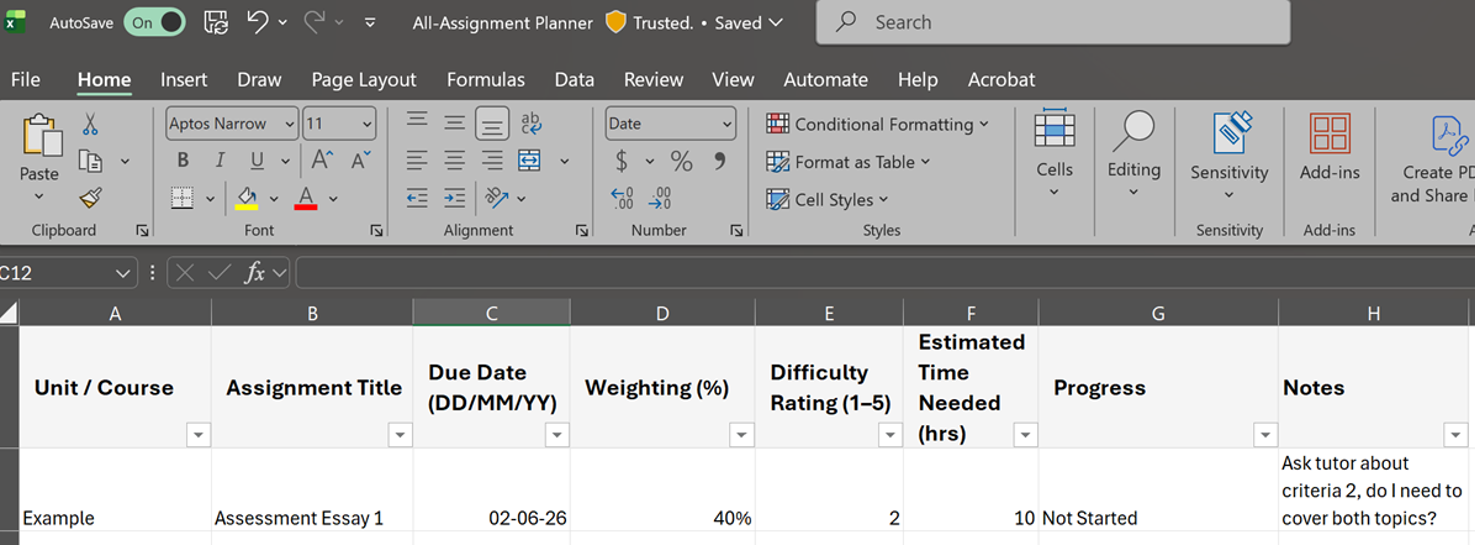
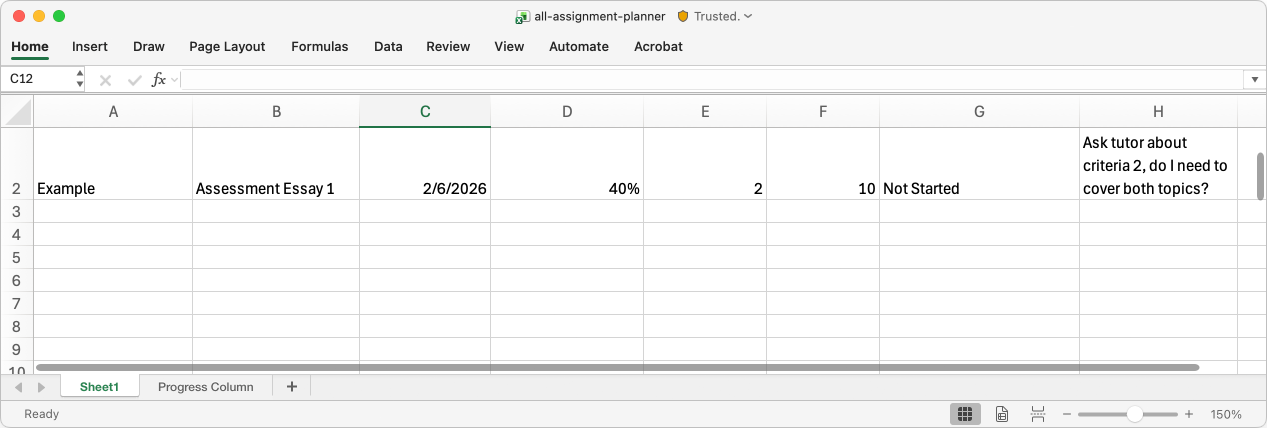
Text amends, additional images

diff --git a/assets/scss/app-specific/_base.scss b/assets/scss/app-specific/_base.scss
@@ -42,3 +42,18 @@ article:last-child {
 	border-top: 1px solid $interface-grey;
 	padding-top: 0.5rem;
 }
+
+.link-large-list-2col {
+	list-style-type: none;
+	
+	margin-top: 0 !important;
+	padding: 0;
+
+	li {
+		padding: 0;
+	}
+
+	@include media-breakpoint-up(md) {  
+		columns: 2;
+	}
+}

diff --git a/assets/scss/app-specific/_two-column.scss b/assets/scss/app-specific/_two-column.scss
@@ -60,6 +60,18 @@
 	}
 }
 
+.nd-img-float {
+	max-width: 10rem;
+	margin: 0px auto;
+	display: block;
+
+	@include media-breakpoint-up(md) {  
+		float: right;
+		width: 8rem;
+		margin-left: 1rem;
+	}
+}
+
 //safe space code
 .safe-space {
 	border: 1px solid $interface-grey;

diff --git a/content/time-management/support-resources.md b/content/time-management/support-resources.md
@@ -147,27 +147,51 @@ weight: 10
 	</div>
 	<!-- END slideshow -->   
 	<h2 class="margin-top-xl">RMIT Study and Assessment Tools</h2>
-	<ul>
-		<li><a href="https://learninglab.rmit.edu.au/">RMIT Learning Lab</a>: Resources to build your academic skills.</li>
+	<div class="my-grid margin-top-md">
+			<div><h3 class="margin-top-xs"><a href="https://learninglab.rmit.edu.au/" class="link-large margin-top-zero">RMIT Learning Lab</a></h3>
+			<p>Resources to build your academic skills.</p></div>
+			<div><h3 class="margin-top-xs"><a href="https://www.lib.rmit.edu.au/easy-cite/" class="link-large margin-top-zero">Easy Cite</a></h3>
+			<p> An easy-to-use referencing guide.</p></div>
+			<div><h3 class="margin-top-xs"><a href="https://rmit.instructure.com/courses/136341" class="link-large margin-top-zero">Generative AI for Students at RMIT</a></h3>
+			<p>A course to help you use generative AI effectively and ethically in your studies.</p></div>
+			<div><h3 class="margin-top-xs"><a href="https://rmit-catalog.rmit.edu.au/browse/catalog/rmit-library/courses/skills-for-success" class="link-large margin-top-zero">Skills for Success</a></h3>
+			<p> A course designed to help you build key skills for success at university.</p></div>
+			<div><h3 class="margin-top-xs"><a href="https://learninglab.rmit.edu.au/AssignmentPlanner/" class="link-large margin-top-zero">RMIT Assignment Planner</a></h3>
+			<p>Get a step-by-step plan with tips and advice for completing your presentations and written assignments.</p></div>
+			<div><h3 class="margin-top-xs"><a href="https://val.rmit.edu.au/" class="link-large margin-top-zero">VAL</a></h3>
+			<p>RMIT’s virtual assistant for learning, providing fast support to students and staff anytime.</p></div>
+	</div>
+	<hr />
+	<!-- <ul>
+		<li><a href="https://learninglab.rmit.edu.au/">RMIT Learning Lab</a>: </li>
 		<li><a href="https://www.lib.rmit.edu.au/easy-cite/">Easy Cite</a>: An easy-to-use referencing guide.</li>
 		<li><a href="https://rmit.instructure.com/courses/136341">Generative AI for Students at RMIT</a></li>
 		<li><a href="https://rmit-catalog.rmit.edu.au/browse/catalog/rmit-library/courses/skills-for-success">Skills for Success</a>: A course designed to help you build key skills for success at university.</li>
 		<li><a href="https://learninglab.rmit.edu.au/AssignmentPlanner/">RMIT Assignment Planner</a>: Get a step-by-step plan with tips and advice for completing your presentations and written assignments.</li>
 		<li><a href="https://val.rmit.edu.au/">VAL:</a> RMIT’s virtual assistant for learning, providing fast support to students and staff anytime.</li>
-	</ul> 
-		<div class="card margin-top-lg">
+	</ul>  -->
+	<h2>Tools round-up</h2>
+	<ul class="link-large-list-2col">
+		<li><a href="https://goblin.tools/" class="link-large">Goblin Tools</a></li> 
+		<li><a href="https://www.todoist.com/" class="link-large">Todoist</a></li> 
+		<li><a href="https://www.focusmate.com/" class="link-large">Focusmate</a></li> 
+		<li><a href="https://forestapp.cc/" class="link-large">Forest</a></li> 
+		<li><a href="https://apps.ankiweb.net/" class="link-large">Anki</a></li> 
+		<li><a href="https://www.tiimoapp.com/" class="link-large">Tiimo</a></li> 
+	</ul>
+		<!-- <div class="card margin-top-lg">
 			<div class="card-body ">
 				<h2 class="card-title ">Tools round-up</h2>
 				<ul>
-					<li><a href="https://goblin.tools/">Goblin Tools</a></li> 
-					<li><a href="https://www.todoist.com/">Todoist</a></li> 
-					<li><a href="https://www.focusmate.com/">Focusmate</a></li> 
-					<li><a href="https://forestapp.cc/">Forest</a></li> 
-					<li><a href="https://apps.ankiweb.net/">Anki</a></li> 
-					<li><a href="https://www.tiimoapp.com/">Tiimo</a></li> 
+					<li><a href="https://goblin.tools/" class="link-large">Goblin Tools</a></li> 
+					<li><a href="https://www.todoist.com/" class="link-large">Todoist</a></li> 
+					<li><a href="https://www.focusmate.com/" class="link-large">Focusmate</a></li> 
+					<li><a href="https://forestapp.cc/" class="link-large">Forest</a></li> 
+					<li><a href="https://apps.ankiweb.net/" class="link-large">Anki</a></li> 
+					<li><a href="https://www.tiimoapp.com/" class="link-large">Tiimo</a></li> 
 				</ul>
 			</div>
-		</div>
+		</div> -->
 	<p class="small margin-top-md border-top" id="my-attribution">Images on this page by <a href="https://rmit.edu.au/">RMIT</a>, licensed under <a href="https://creativecommons.org/licenses/by/4.0/">CC BY-NC 4.0</a></p>
 </div>
 <script src="/nd-workshop/js/slideshow.js?ver=1.1"></script>

diff --git a/content/time-management/key-takeaways.md b/content/time-management/key-takeaways.md
@@ -26,32 +26,4 @@ weight: 9
 		</a>
 	</div>
 	<p class="small margin-top-md border-top" id="my-attribution">Images on this page by <a href="https://rmit.edu.au/">RMIT</a>, licensed under <a href="https://creativecommons.org/licenses/by/4.0/">CC BY-NC 4.0</a></p>
-	<!-- <h2>Tools round-up</h2>
-	<div class="my-grid ">
-		<div class="card ">
-			<div class="card-body trim-top-right">
-				<h3 class="card-title ">Low-tech & apps</h3>
-				<ul>
-					<li>Todoist</li>
-					<li>Microsoft To Do</li>
-					<li>Google/Outlook Calendar</li>
-					<li>Forest App</li>
-					<li>physical planner/bullet journal</li>
-					<li>visual timers</li>
-					<li>sticky notes</li>
-				</ul>
-			</div>
-		</div>
-		<div class="card ">
-			<div class="card-body trim-top-right">
-				<h3 class="card-title ">AI powered</h3>
-				<ul>
-					<li>Goblin Tools (Magic To-Do)</li>
-					<li>VAL (RMIT’s AI assistant)</li>
-					<li>Tiimo (visual schedule)</li>
-					<li>Anki (spaced repetition)</li>
-				</ul>
-			</div>
-		</div>
-	</div>-->	
 </div>

diff --git a/content/time-management/beat-procrastination.md b/content/time-management/beat-procrastination.md
@@ -51,20 +51,14 @@ weight: 7
 		</h3>
 			<div id="body-how-it-works-3001" class="accordion-collapse collapse" aria-labelledby="head-how-it-works-4929">
 				<div class="accordion-body">
-					<div class="img-text align-items-top "><figure aria-labelledby="my-attribution">
-					<img decoding="async" src="https://rmiteduau.sharepoint.com/:i:/r/sites/DigitalLearning/Shared%20Documents/General/_Current%20Projects/User%20Testing/09%20Neurodivergent%20testing/05-content/prototype-images/body-doubling.png?csf=1&#038;web=1&#038;e=bfbS7X" alt="An example image" loading="lazy" />
-					</figure>
-					<div class="content-text">
-					Body doubling can be done in different ways. You might:</p>
+				<p>Body doubling can be done in different ways. You might:</p>
 					<ul>
 					<li>study in the same room as a friend</li>
 					<li>join a virtual study session</li>
 					<li>use online “study with me” videos (there are lots on YouTube)</li>
 					<li>work in a public space such as a library or café.</li>
 					</ul>
-					</div>
-				</div>
-				Body doubling can also help with everyday tasks. For example, some people find it easier to make a difficult phone call, organise paperwork, or clean their room when another person is nearby.<br />
+				<p>Body doubling can also help with everyday tasks. For example, some people find it easier to make a difficult phone call, organise paperwork, or clean their room when another person is nearby.</p>
 				</div>
 			</div>
 		</div>

diff --git a/content/time-management/build-your-system.md b/content/time-management/build-your-system.md
@@ -244,6 +244,7 @@ weight: 8
             <!-- START info-pomodoro -->
 			<div id="info-pomodoro" class="info-technique">
 				<h3><div class="little-heading">Things to remember about</div> The pomodoro technique</h3>
+				<img src="/nd-workshop/images/time-management/[email redacted]" alt="" class="nd-img-float" />
 				<ul>
 				<li>Remove distractions from your study area.</li>
 				<li>Set yourself one small goal for the each interval. For example, read one article, write one paragraph, etc.</li>
@@ -258,6 +259,7 @@ weight: 8
 			<!-- START info-body-doubling -->
 			<div id="info-body-doubling" class="info-technique">
 				<h3><div class="little-heading">Things to remember about</div> Body doubling</h3>
+				<img src="/nd-workshop/images/time-management/[email redacted]" alt="" class="nd-img-float" />
 				<ul>
 				<li>Try studying in the same room as a friend, with both of you working on your own tasks.</li>
 				<li>You can also try body doubling in a public space like a library or a cafe.</li>
@@ -289,6 +291,7 @@ weight: 8
 			<!-- START info-create-urgency -->
 			<div id="info-create-urgency" class="info-technique">
 			<h3><div class="little-heading">Things to remember about</div> Creating urgency</h3>
+			<img src="/nd-workshop/images/time-management/[email redacted]" alt="" class="nd-img-float" />
 			<p>If you are the type of person who needs a deadline to help you get started, you can try setting your own deadlines rather than waiting for assessment due dates. To do this:</p>
 			<ul>
 			<li>Break you assessments down into smaller tasks. For example, find literature, do background reading, write first draft.</li>
@@ -300,6 +303,7 @@ weight: 8
 			<!-- START info-5-minute-rule -->
 			<div id="info-5-minute-rule" class="info-technique">
 			<h3><div class="little-heading">Things to remember about</div> The 5-minute rule</h3>
+			<img src="/nd-workshop/images/time-management/[email redacted]" alt="" class="nd-img-float" />
 			<ul>
 			<li>Select a task you are having trouble getting started on. Make sure it’s something small.</li>
 			<li>Remove distractions from your study area.</li>
@@ -313,6 +317,7 @@ weight: 8
 			<!-- START info-make-it-pleasant -->
 			<div id="info-make-it-pleasant" class="info-technique">
 			<h3><div class="little-heading">Things to remember about</div> The make it pleasant technique</h3>
+			<img src="/nd-workshop/images/time-management/[email redacted]" alt="" class="nd-img-float" />
 			<p>Pair tasks that you have been avoiding or that you don't enjoy very much with things that you do enjoy. For example:</p>
 			<ul>
 			<li>Take your laptop to a park to read an academic articles.</li>
@@ -328,6 +333,7 @@ weight: 8
 			<!-- START info-gamify-it -->
 			<div id="info-gamify-it" class="info-technique">
 			<h3><div class="little-heading">Things to remember about</div> The gamify it technique</h3>
+			<img src="/nd-workshop/images/time-management/[email redacted]" alt="" class="nd-img-float" />
 			<p>If you the sort of person who loves a challenge, then gamifying your studies could work for you. Here are some things you could try:</p>
 			<ul>
 			<li>Progress bar: Create a visual progress bar and colour in sections as you complete study tasks. For example, divide the bar into ten sections and colour in one section each time you complete a task such as reading an article, watching a lecture or writing a paragraph.</li>
@@ -403,5 +409,6 @@ weight: 8
         <!-- END plan -->
     </div>
     <!-- END build your system -->
+	<p class="small margin-top-md" id="my-attribution">Images on this page by <a href="https://rmit.edu.au/">RMIT</a>, licensed under <a href="https://creativecommons.org/licenses/by/4.0/">CC BY-NC 4.0</a></p>
 </div>
 <script src="/nd-workshop/js/build-your-system.js?ver=1.3"></script>

diff --git a/content/time-management/prioritise-plan.md b/content/time-management/prioritise-plan.md
@@ -133,6 +133,9 @@ weight: 3
 				<li>Break assignments into <strong>small, concrete steps</strong> (e.g., “find 3 sources” instead of “start assignment”).</li>
 				<li>Add <strong>due dates</strong> for tasks.</li>
 				</ul>
+				<figure class="wide" aria-labelledby="my-attribution">
+					<img src="/nd-workshop/images/time-management/planner.png" alt="Essay planner board with To do, In progress, Waiting on feedback and Done columns" />
+				</figure>
 				<!-- END planner content -->
 			</div>
 			</div>